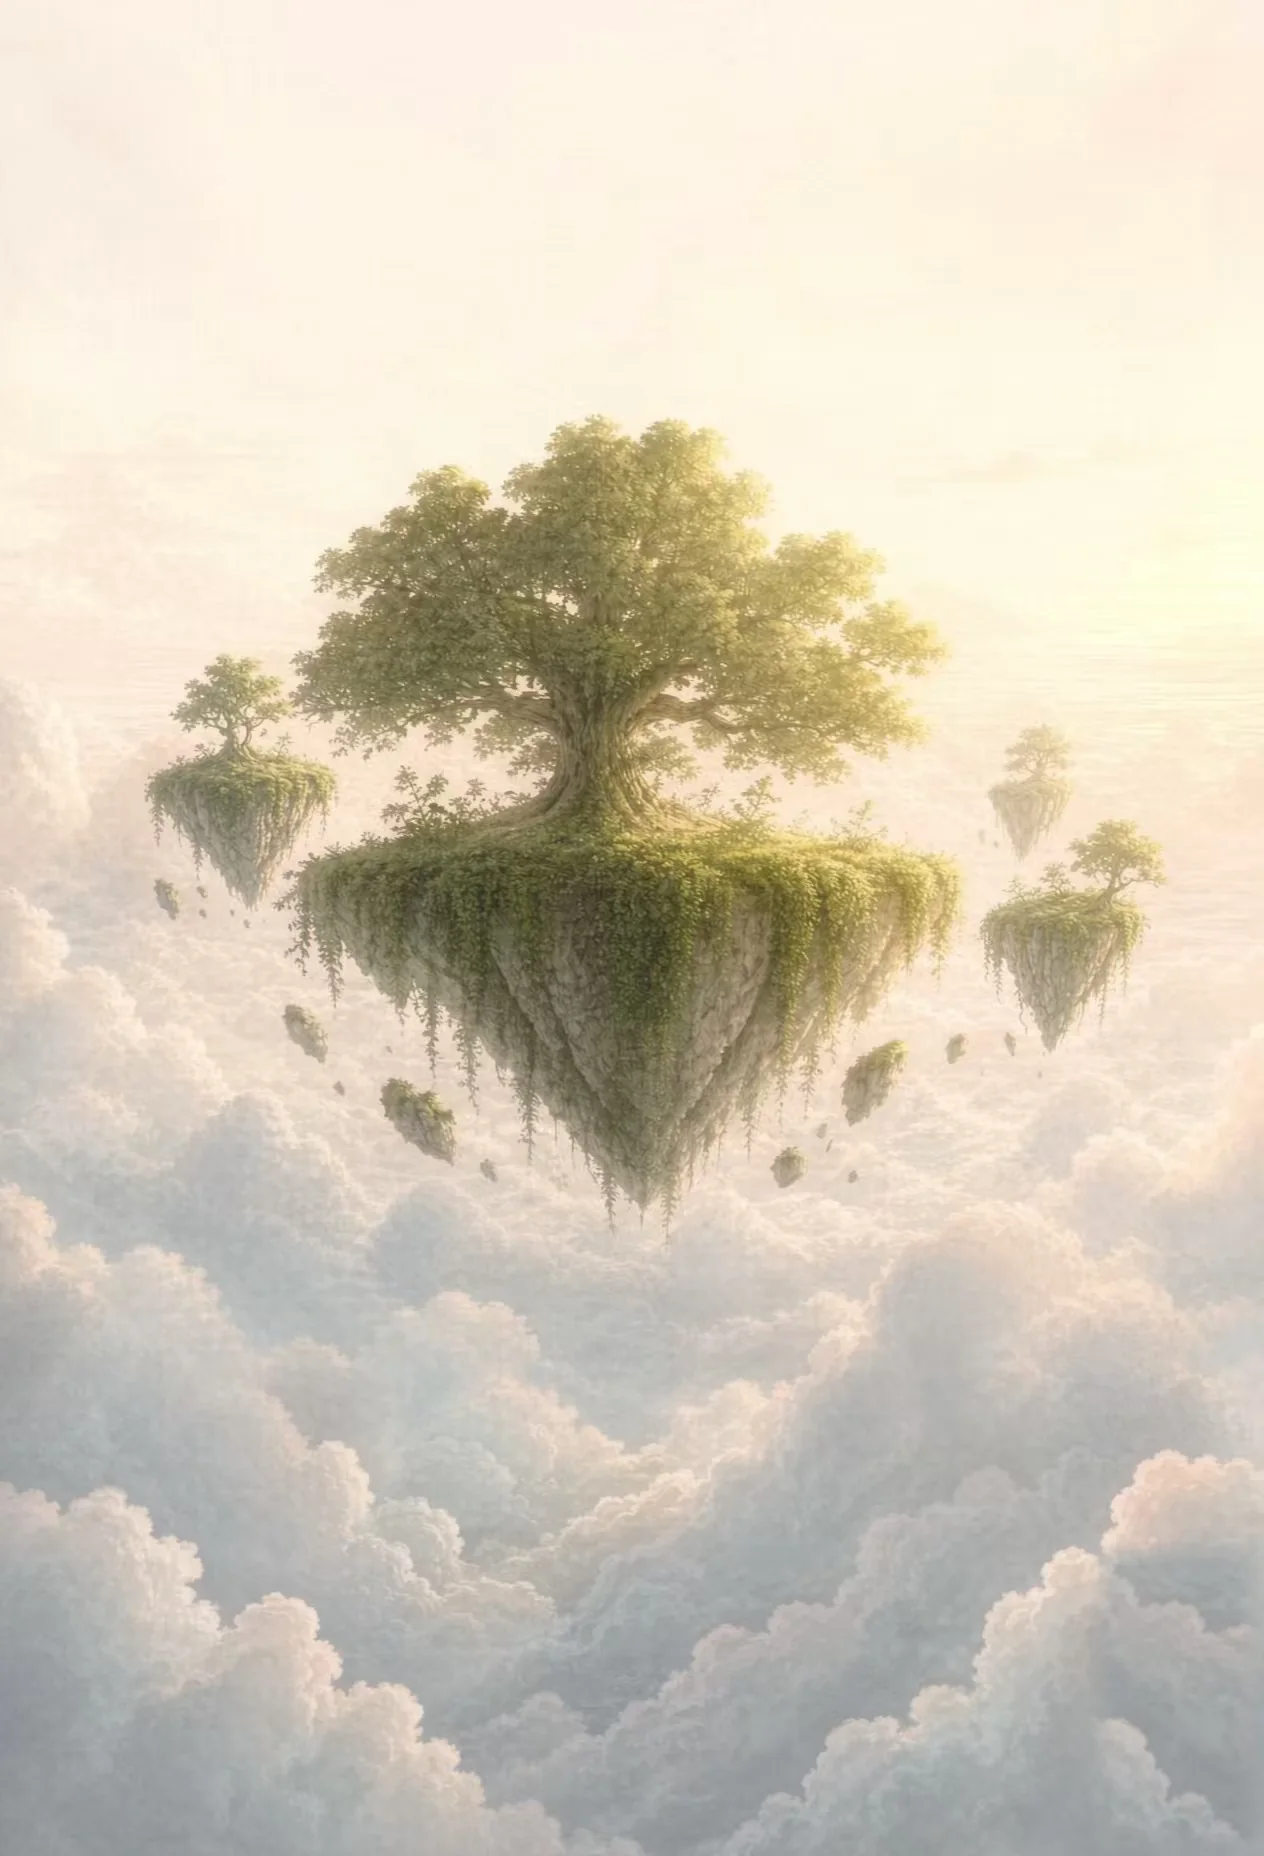
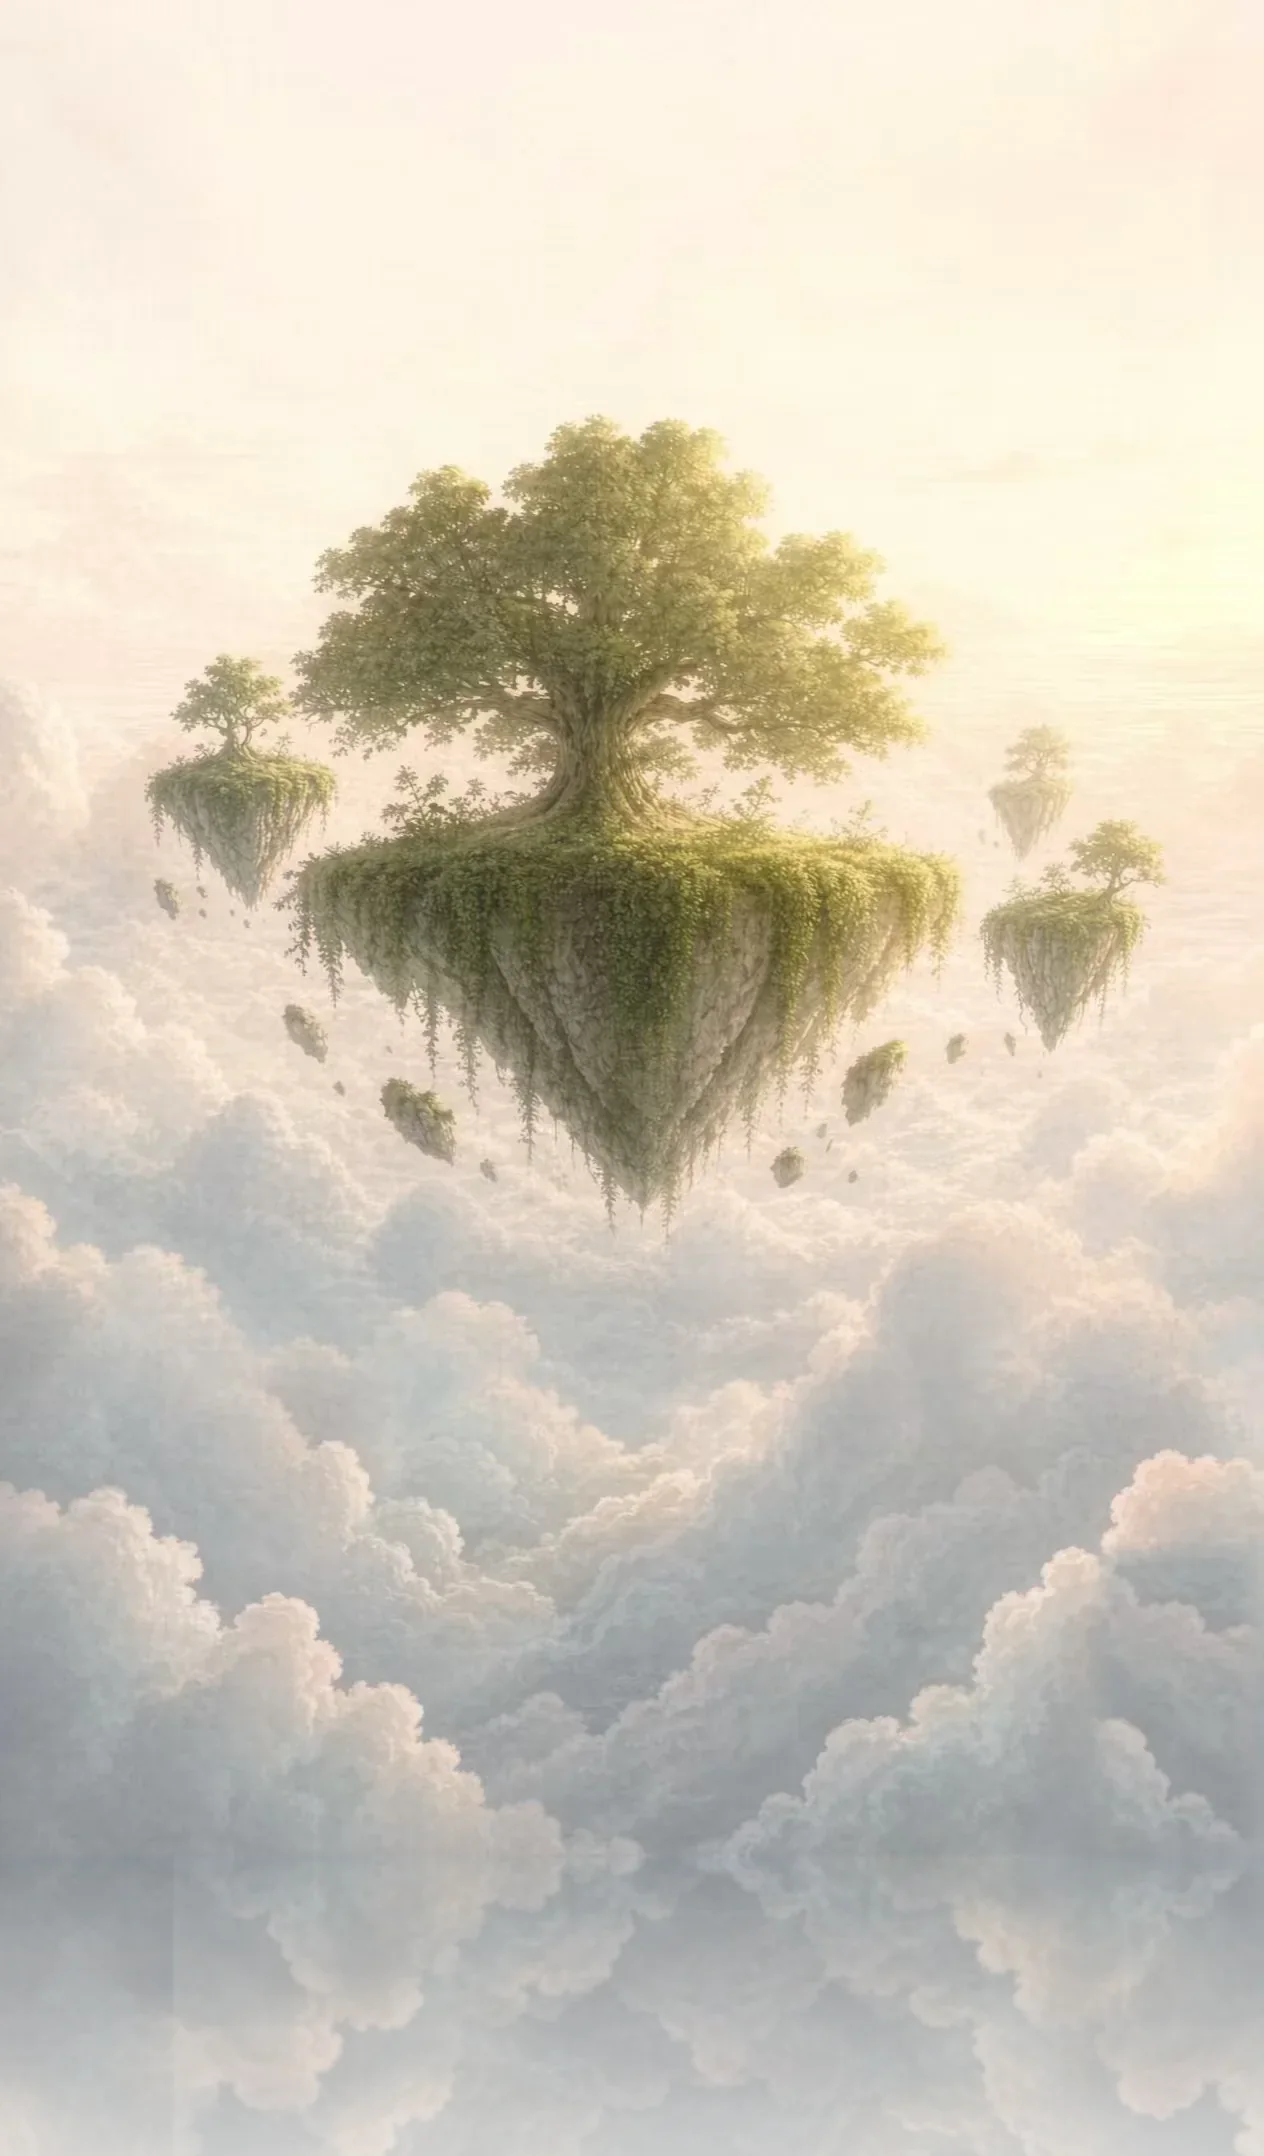
浮岛底图版本 2：底部接云把岛往上推 + 文案贴近岛（v104）
用户看线上后反馈：「整体的那个图可以往上挪一点，字体也更加靠近一点，
现在上面留白多下面很少」。

做法（为什么不裁天空）：cover 下裁掉 Y0 像素的天空，缩放就变成 844/(1856-Y0)
—— 裁得越多、cover 把岛放得越大。给底部接云才是**纯位移**。

- art/isle.webp、art/archipelago.webp：1264×1856 → **1264×2156**（底部接 300px 云）
  几何收益：cover 缩放 0.4547→0.3915 → 岛岩尖屏幕 y 568→489、岛略小、
  可视横向 858→996px（三样都是「往上挪」想要的）
- 接缝修法（踩过一轮）：取样带从顶行起铺会让接缝**亮 28 级**
  （实测 mean 170.8→198.9、std 15.9→8.3，肉眼一条横线）→
  改成①**镜像起头**（第一行 = 原图最后一行，逐像素连续）
  ②**逐行把均值/对比度重映射**成「原图底行 → 底部目标」的平滑延续。
  复测接缝 mean 163.9→165.1（+1.2 ✓）
- style.css：文案块 top 72.7% → **64%**（贴住岛的岩尖）、行距 16/8/20 → 12/6/16；
  底图注释补上「二次调整」的原委与接缝的坑
- sw.js：CACHE → **v104**（图片**文件名没变、内容变了**，不跳版本会继续用旧图）

check + smoke 全绿（65 脚本）。

diff --git a/style.css b/style.css
@@ -5328,11 +5328,19 @@ span.msg-avatar-initial{
 .page[data-page="island"] .app-body{position:relative;min-height:0;}
 
 /* ---- 底图：一整幅生成插画铺满 ----
-   两张图（孤岛 art/isle.webp / 群岛 art/archipelago.webp）都是 1264x1856。
-   纵横比 0.68 比手机（≈0.46）宽，所以 cover **只裁左右、不裁上下** ——
+   两张图（孤岛 art/isle.webp / 群岛 art/archipelago.webp）都是 1264x2156。
+   纵横比 0.59 比手机（≈0.46）宽，所以 cover **只裁左右、不裁上下** ——
    上方留给状态栏的那片天空、下方那片云海，都完整保住。
-   构图铁律（岛像素宽 ≤ 手机纵横比 × 图高，且云海铺到最底边）与生图提示词见
-   D:/tmp/isl-redesign/浮岛-生图提示词.txt。 */
+   构图铁律（主体像素宽 ≤ 手机纵横比 × 图高，且背景铺到最底边）见
+   D:/tmp/isl-redesign/浮岛-生图提示词.txt。
+
+   09-22 二次调整：**底部又接了 300px 云**（`D:/tmp/isl-redesign/extend-footer.py`）。
+   目的是「把岛在画面里往上挪」—— cover 下想让内容上移，一般只能裁掉上面的天空，
+   而裁得越多 cover 就把岛放得越大。给底部接云则是**纯位移**：图变高 → 缩放变小
+   （岛略小）、可视横向变宽、岛在画面里上移，三个都是想要的。
+   接缝处的坑：取样带若从**顶行**起铺，接缝会亮 28 级（实测 170→199）且
+   对比度只剩一半 → 必须**镜像起头**（第一行 = 原图最后一行）+
+   **逐行把均值/对比度重映射成原图趋势的延续**，接缝才降到 +1 级。 */
 .isl-art{
   position:absolute;inset:0;z-index:0;pointer-events:none;
   background-repeat:no-repeat;background-position:center center;
@@ -5400,8 +5408,10 @@ span.msg-avatar-initial{
 
 /* ---- 文案：压在下方云雾带里 ----
    用户 09-21：「文案整体可以靠近岛屿一点，就是可以在云雾那里」。
-   top 72.7% 是按真机 390x844 的效果定的 —— 岛的岩尖落在约 70%，
-   再往上会碰到岩尖，再往下就离底太近、跟按钮挤在一起。
+   09-22 二次调整：底图改成「底部接了 300px 云」之后岛在画面里上移了
+   （岛尖从屏幕 568px 上到 489px），文案跟着从 72.7% 提到 **64%**，
+   贴住岛的岩尖；行距也收紧了（16/8/20 → 12/6/16），
+   这样底部的留白才够（用户：「上面留白多下面很少」）。
 
    ⚠ **这一页的字色写死暖色、不跟主题** —— 底图永远是那张暖白的晨光插画：
    · 夜灯下 --g-ink 会翻成浅字，压在同一片浅云上就是白字白底，看不见；
@@ -5409,7 +5419,7 @@ span.msg-avatar-initial{
      （用户明确「不要蓝也不要绿」）。
    所以这页是**插画页**，颜色由画定，跟朋友圈封面同类。 */
 .isl-word{
-  position:absolute;left:30px;right:30px;top:72.7%;z-index:2;
+  position:absolute;left:30px;right:30px;top:64%;z-index:2;
   text-align:center;
   pointer-events:none;   /* 纯字，别挡住「按住拖动换岛」 */
 }
@@ -5419,11 +5429,11 @@ span.msg-avatar-initial{
 }
 /* 岛上那句诗 —— 这一层的灵魂，别再写说明书 */
 .isl-poem{
-  margin:16px 0 0;font-family:var(--ff-serif);font-size:13px;
+  margin:12px 0 0;font-family:var(--ff-serif);font-size:13px;
   letter-spacing:.16em;text-indent:.16em;color:#7A6B58;
 }
-.isl-poem-from{margin:8px 0 0;font-size:9.5px;letter-spacing:.14em;color:rgba(122,107,88,.70);}
-.isl-isle-count{margin:20px 0 0;font-size:10.5px;letter-spacing:.06em;color:rgba(122,107,88,.86);}
+.isl-poem-from{margin:6px 0 0;font-size:9.5px;letter-spacing:.14em;color:rgba(122,107,88,.70);}
+.isl-isle-count{margin:16px 0 0;font-size:10.5px;letter-spacing:.06em;color:rgba(122,107,88,.86);}
 
 /* ---- 「进 岛」按钮 ----
    用户 09-21 拍板：留一个明确的按钮，整页不再当点击区。 */

diff --git a/sw.js b/sw.js
@@ -13,6 +13,17 @@
    skipWaiting + clients.claim 让新版立刻接管，不用关两次页面。
    （file:// 不走 SW，本来就是全离线的，两边正好互补。）
 
+   v104（2026-09-22）：**浮岛底图版本 2** —— 用户看线上后反馈「图往上挪一点、
+   字体靠近一点、上面留白多下面很少」。做法不是裁天空（cover 下裁得越多岛越大），
+   而是**给底图底部接 300px 云**（1264×1856 → 1264×2156）：图变高 → cover 缩放
+   0.4547→0.3915 → 岛在画面里上移（岩尖 568→489px）、略微变小、可视横向变宽
+   （858→996px）。文案块 top 72.7%→64%、行距 16/8/20→12/6/16。
+   接缝的坑：取样带从**顶行**起铺会亮 28 级（实测 170→199）且对比度只剩一半 →
+   必须**镜像起头**（第一行 = 原图最后一行）+ **逐行把均值/对比度重映射成原图
+   趋势的延续**，接缝才降到 +1 级。脚本 `D:/tmp/isl-redesign/extend-footer.py`。
+   → 必须跳版本：style.css 改了，且 **art/ 两张图的内容换了**
+   （文件名没变、内容变了 —— 不跳版本的话浏览器和 SW 都会继续用旧图）。
+
    v103（2026-09-22）：**浮岛选岛页换成整幅生成插画**（`art/isle.webp` /
    `art/archipelago.webp`，各约 110 KB）—— 原来那版是 CSS 画的扁平淡绿椭圆 +
    棒棒糖树，加上一层薄荷绿渐变和一团冷蓝光，跟全站纯白 + 焦糖的身份完全打架
@@ -95,7 +106,7 @@
    ============================================================ */
 'use strict';
 
-var CACHE = 'sleepy-v103';
+var CACHE = 'sleepy-v104';
 var CORE = [
   './',
   './index.html',
